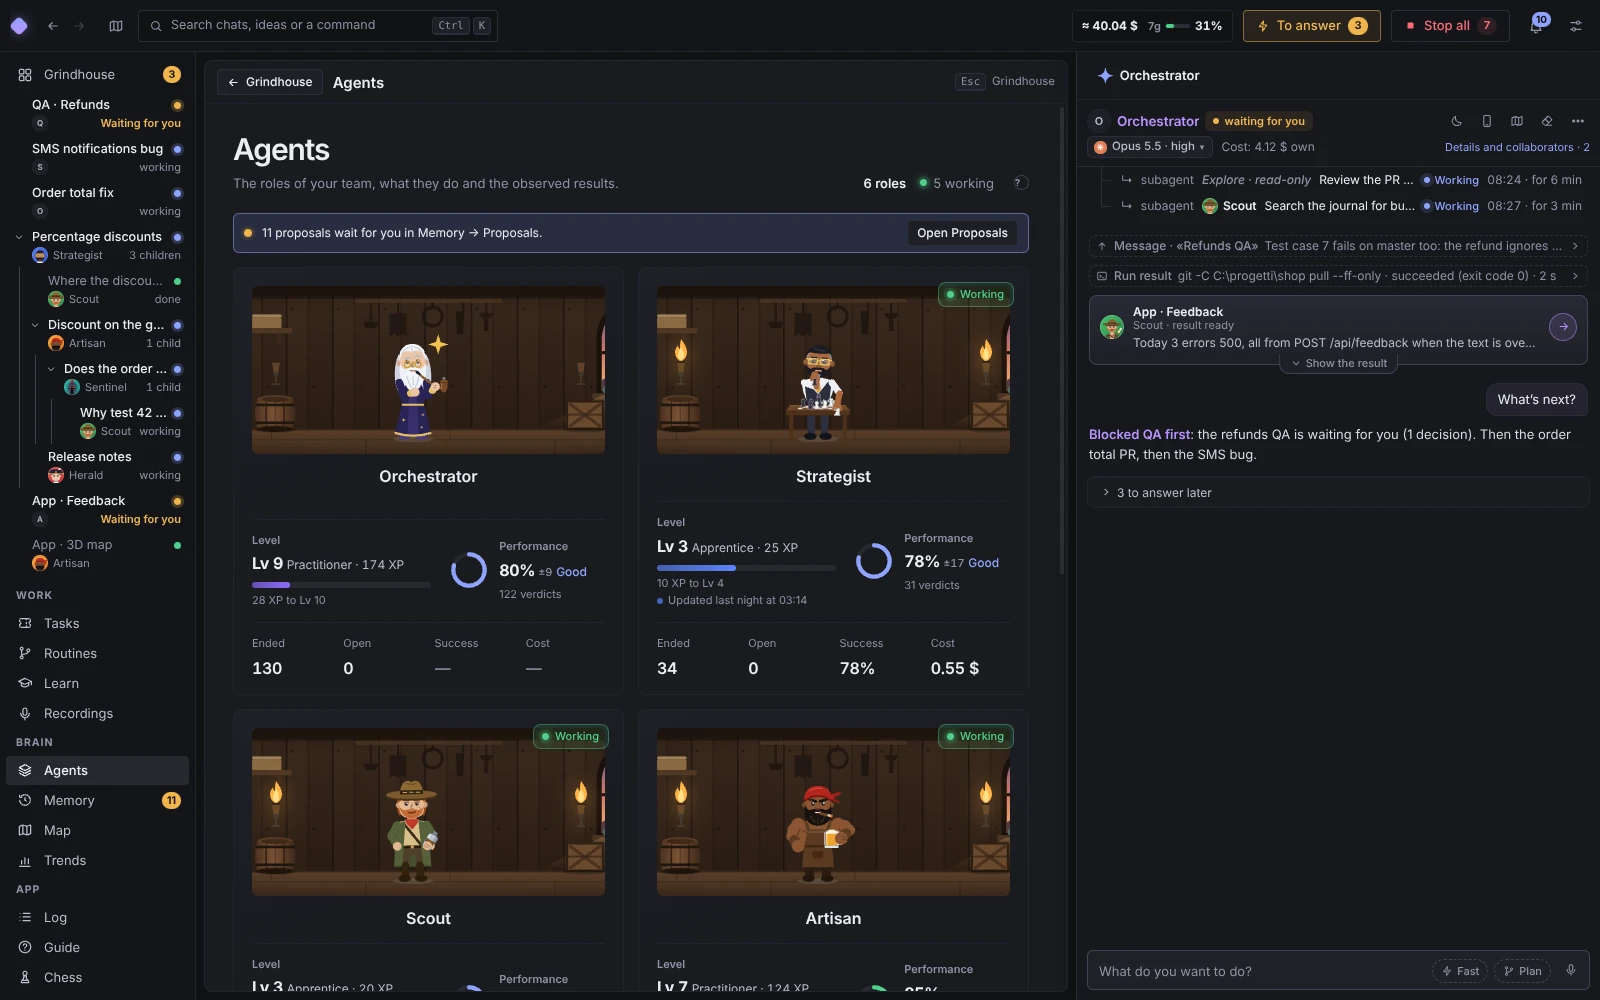
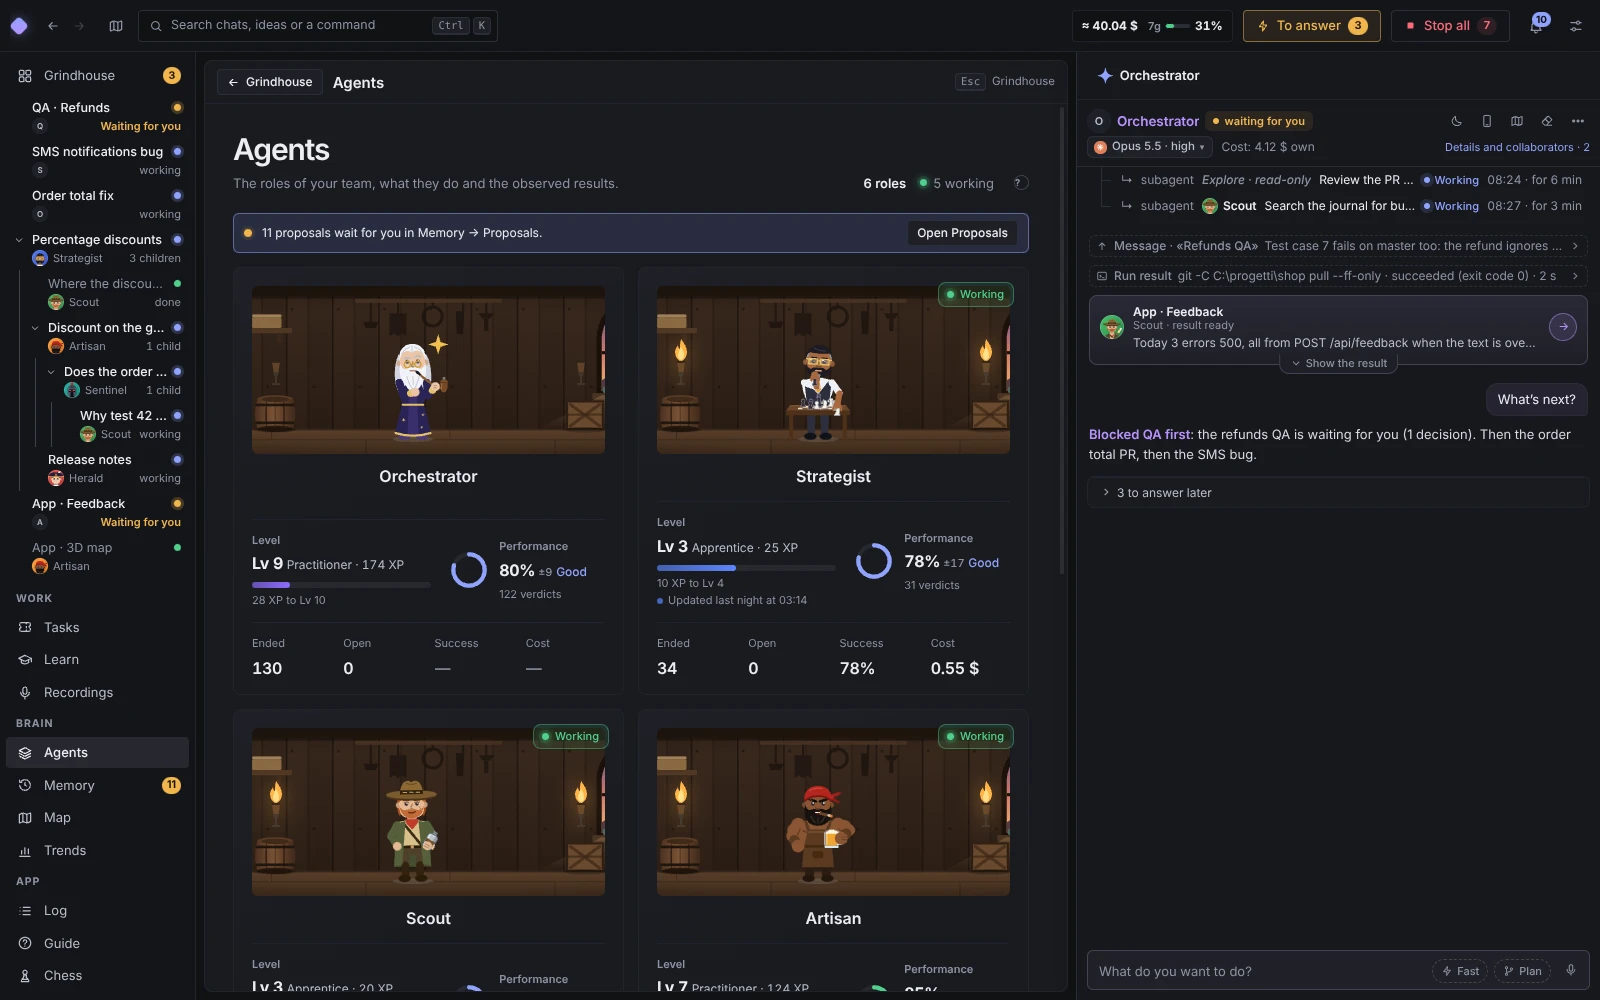
docs(readme): retake the screenshots without the Routine page
Grindhouse, Agents and Artifacts are taken again: the left rail has no
Routine entry any more. The demo's artifact pictures were mockups of the
Routine page: three small pictures of the app replace them
(docs/demo-pictures).

Claude-Session: https://claude.ai/code/session_01JNq1hGBJKuURVUQo7Uz8wt

diff --git a/src/main/library/demo.ts b/src/main/library/demo.ts
@@ -90,9 +90,10 @@ export function seedDemoArtifacts(o: { brain: string; userData: string; appPath:
   const csv = w(path.join('tmp', 'export-rimborsi.csv'), REFUNDS_CSV, 1.6 * H);
   w(path.join('reviews', 'qa-rimborsi', 'flusso-rimborsi.svg'), FLOW_SVG, 1.7 * H);
   w(path.join('reviews', 'verbale-riunione-rilascio.docx'), Buffer.concat([Buffer.from('PK\x03\x04', 'latin1'), Buffer.alloc(26)]), 2 * D);
-  const shots = path.join(o.appPath, 'docs', 'screenshots');
+  // three small pictures of the app itself (docs/demo-pictures, PNG: the card thumbnails are made by nativeImage)
+  const shots = path.join(o.appPath, 'docs', 'demo-pictures');
   const ev = path.join(o.userData, 'evidence');
-  for (const [name, chat, ago] of [['grindhouse.webp', 'qa', 2 * H], ['project-map.webp', 'qa', 2.2 * H], ['trends.webp', 'fix', 30 * H]] as const) {
+  for (const [name, chat, ago] of [['grindhouse.png', 'qa', 2 * H], ['project-map.png', 'qa', 2.2 * H], ['trends.png', 'fix', 30 * H]] as const) {
     try { w(path.join(`chat-${chat}`, `schermata-${name}`), fs.readFileSync(path.join(shots, name)), ago, ev); } catch { /* the demo goes on without it */ }
   }
   return {
